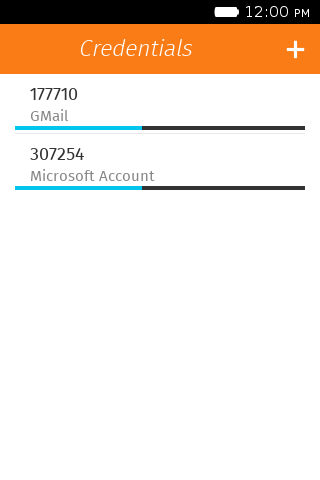
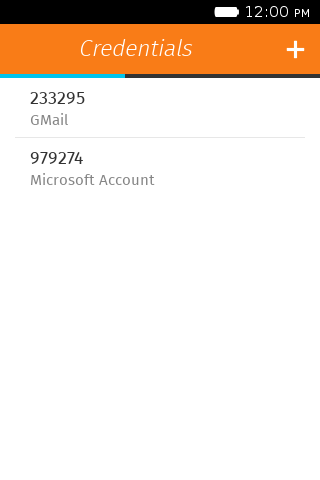
Add new screen shot, showing layout improvements

Changed region(s): [[0.0, 0.1562, 1.0, 0.2812], [0.0312, 0.3125, 0.9688, 0.4062]]

diff --git a/README.md b/README.md
@@ -20,6 +20,9 @@ is used.
 
 ![Screen shot of the main user interface.](screenshots/main.png
 "Default view with a few added credentials")
+![Screen shot of the main user interface showing credentials with
+different time steps.](screenshots/custom.png "Default view, but now the
+credentials have different time steps")
 ![Screen shot showing several options.](screenshots/add.png
 "View for adding a new credential")
 
@@ -32,6 +35,6 @@ dependencies.
 
 Generate the app icon
 =====================
-You can convert the app icon's SVG into a PNG using Inkscape.
+You can convert the app icons from SVG into PNG using Inkscape.
 
     $ for size in 60 128 512;do inkscape -z -e img/icon-$size.png -w $size -h $size img/icon.svg;done
